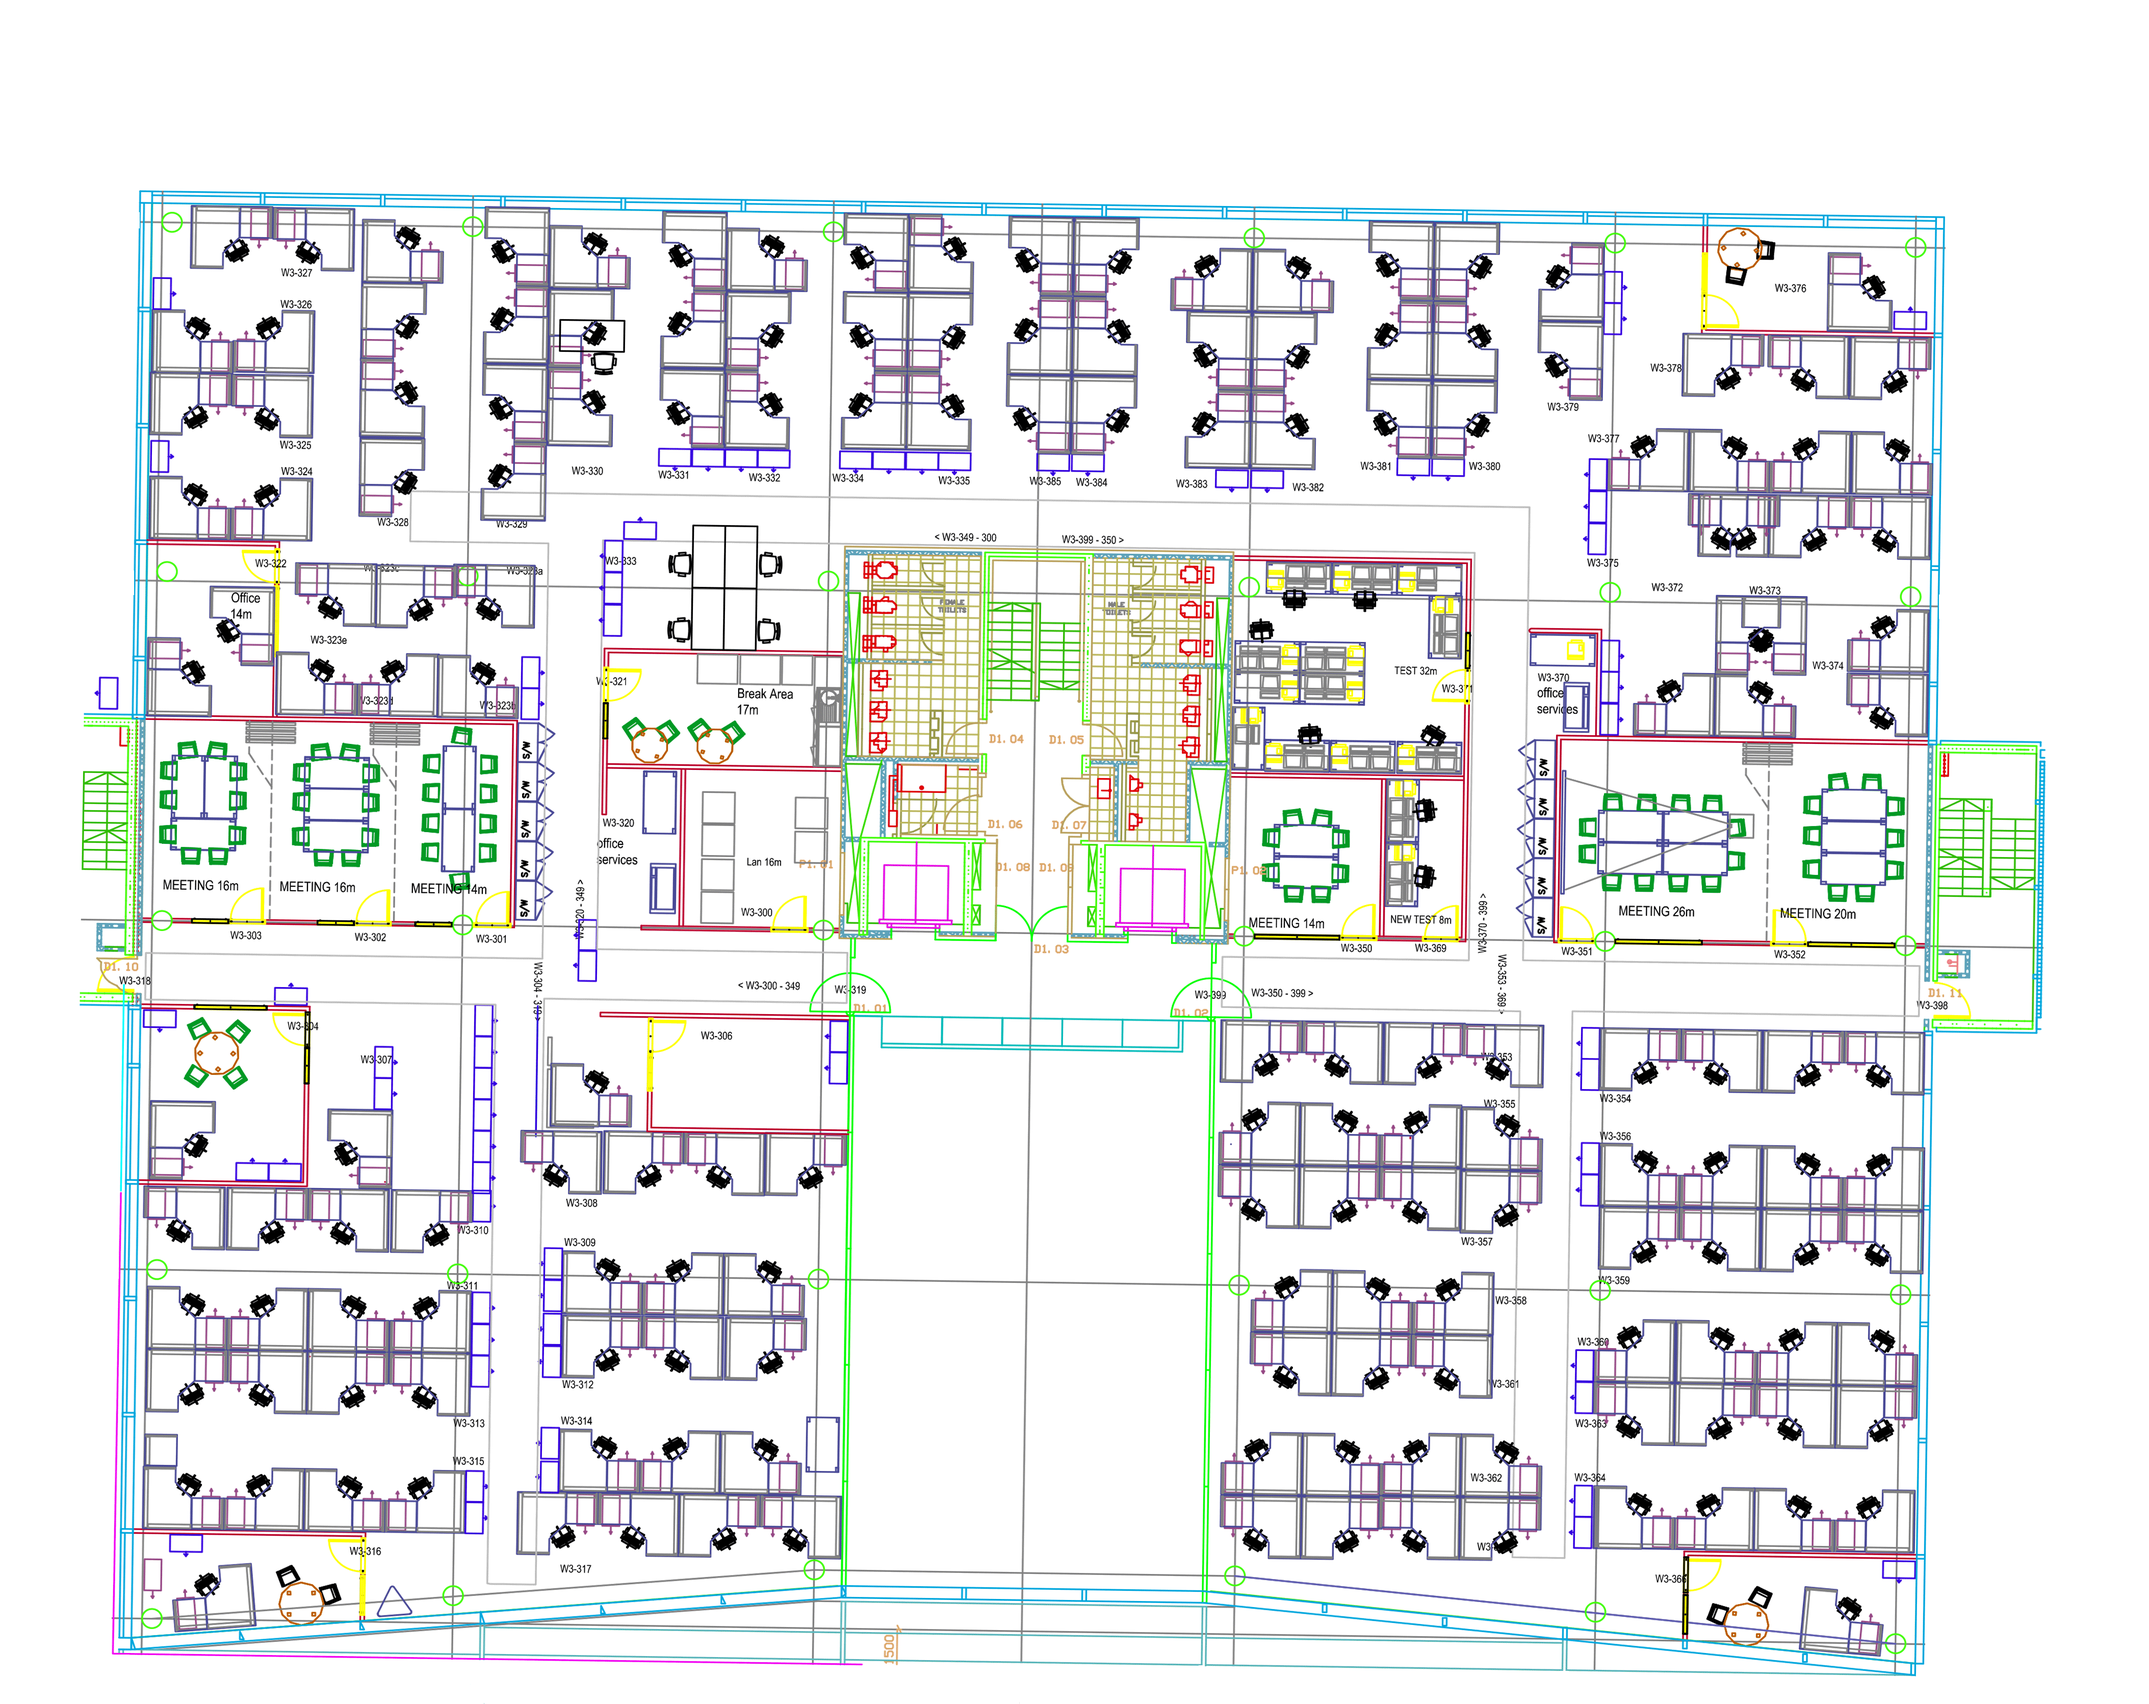
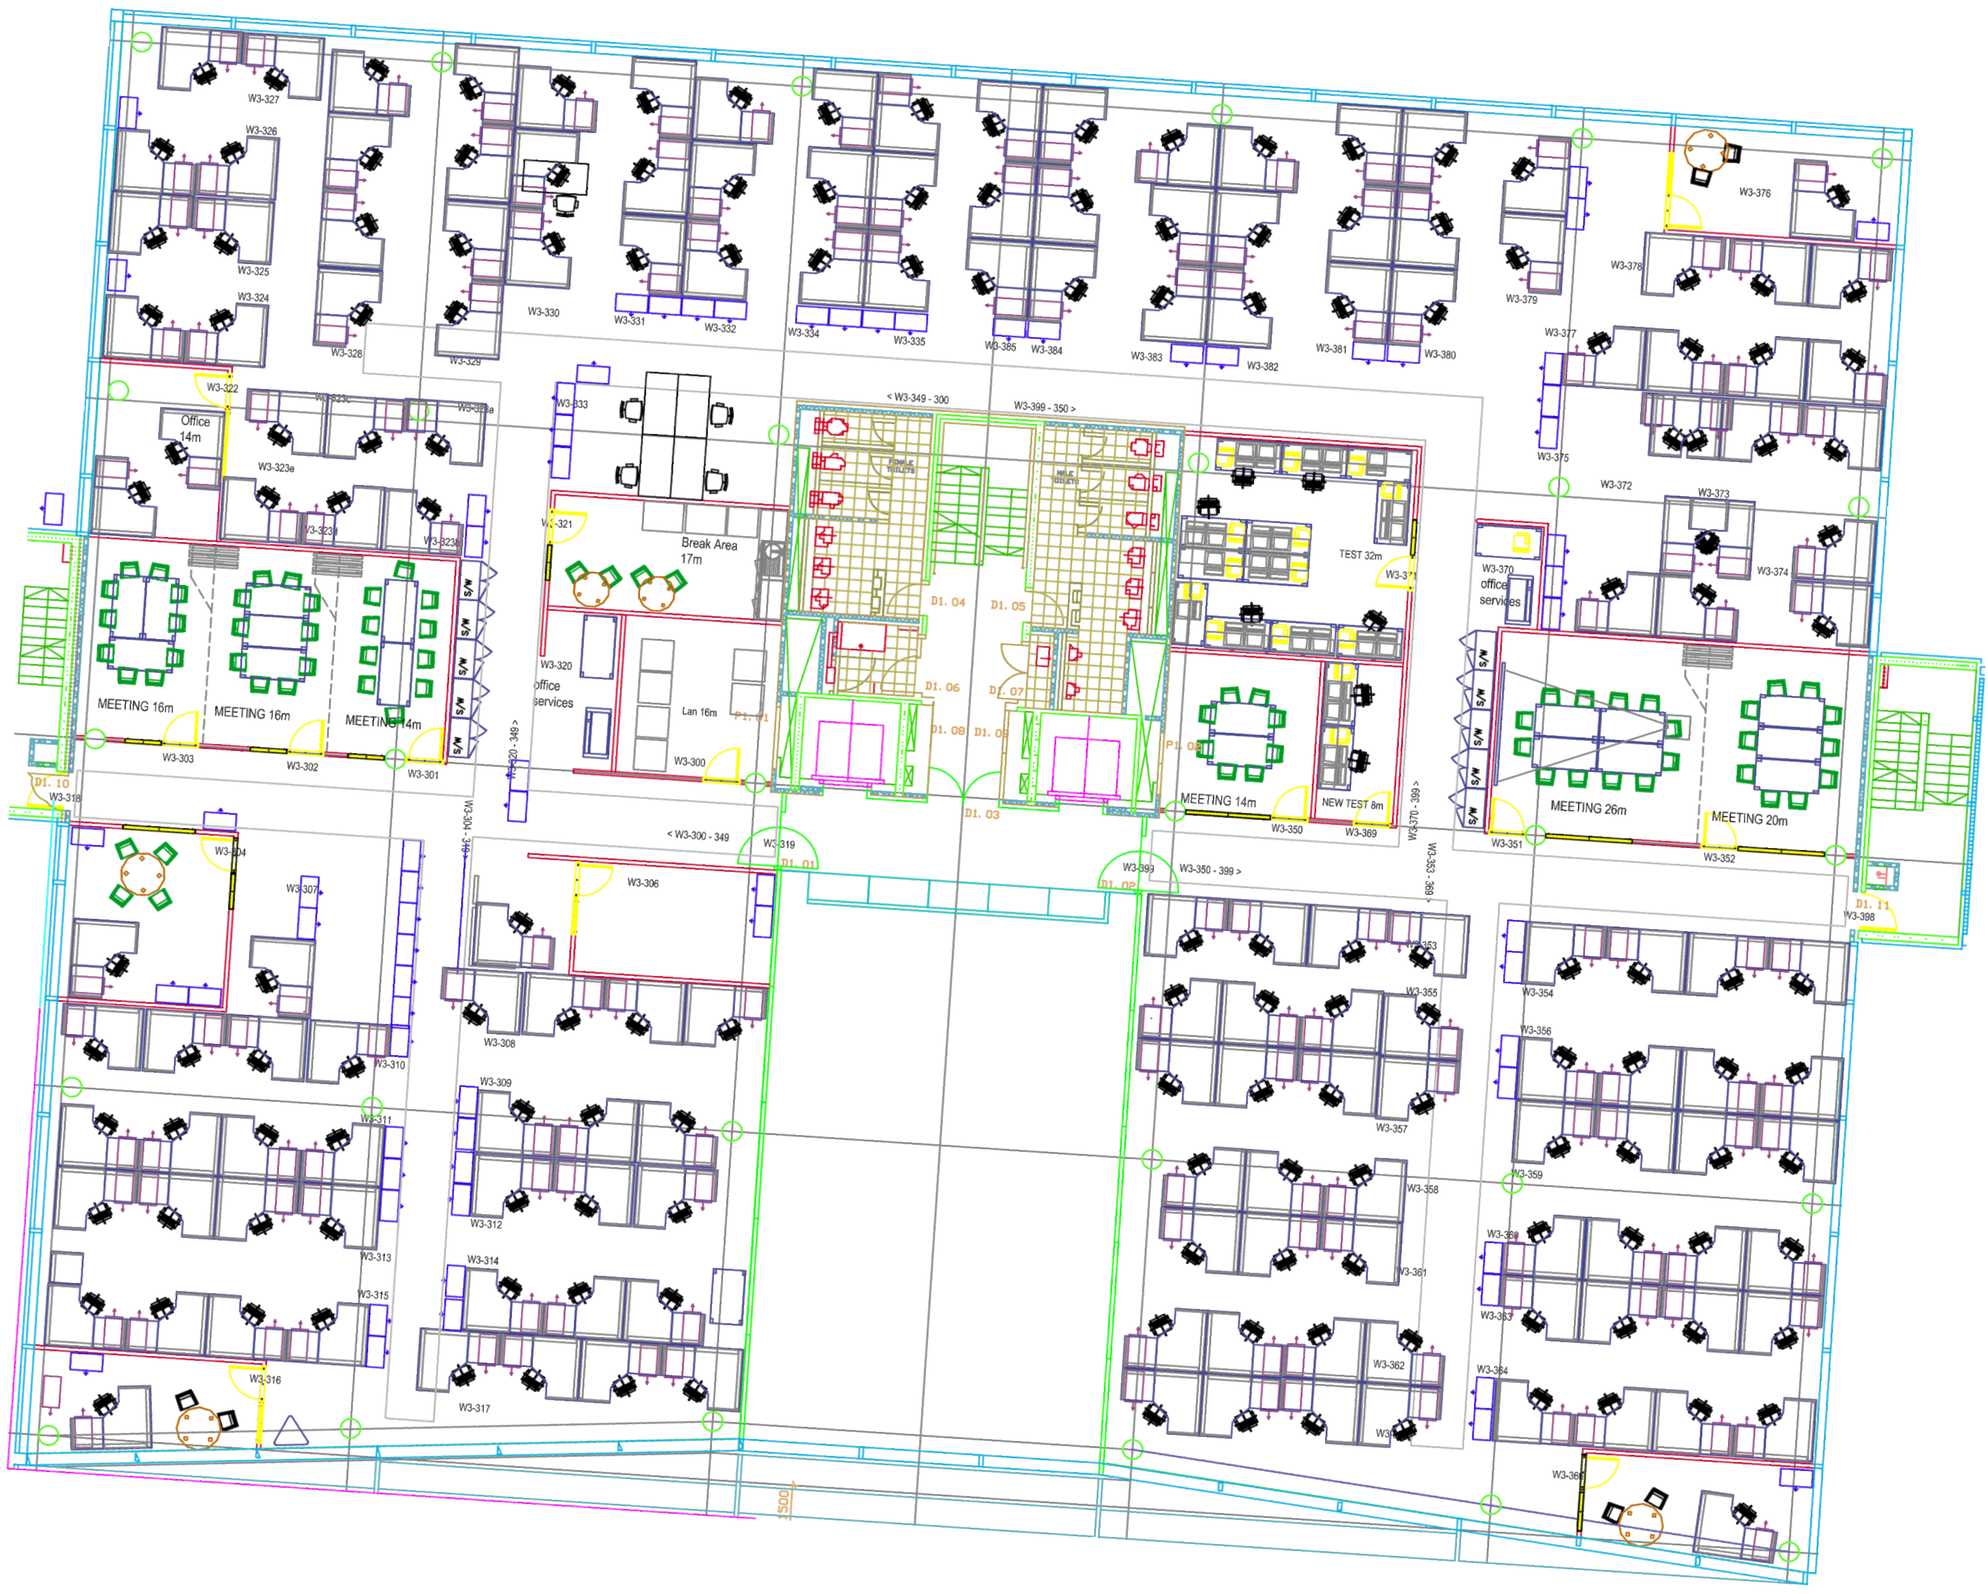
[Fix]

diff --git a/webapp/src/app/pages/demo/demo.component.ts b/webapp/src/app/pages/demo/demo.component.ts
@@ -38,40 +38,37 @@ export class DemoComponent implements OnInit, OnDestroy, AfterViewInit {
   private marker: L.Marker;
   private circle: L.Circle;
 
-  private floor_1: L.LayerGroup = new L.LayerGroup();
-  private floor_2: L.LayerGroup = new L.LayerGroup();
-  private floor_3: L.LayerGroup = new L.LayerGroup();
-  private floor_4: L.LayerGroup = new L.LayerGroup();
+  private building: L.LayerGroup = new L.LayerGroup();
 
-  private circle_1_1: L.CircleMarkerOptions = {
+  private circle_1: L.CircleMarkerOptions = {
     color: '#000000',
     weight: 1,
     fillColor: '#e7e35a',
     fillOpacity: 0.3
   };
 
-  private circle_1_2: L.CircleMarkerOptions = {
+  private circle_2: L.CircleMarkerOptions = {
     color: '#000000',
     weight: 1,
     fillColor: '#58dcd6',
     fillOpacity: 0.3
   };
 
-  private circle_2_1: L.CircleMarkerOptions = {
+  private circle_3: L.CircleMarkerOptions = {
     color: '#000000',
     weight: 1,
     fillColor: '#9f29a9',
     fillOpacity: 0.3
   };
 
-  private circle_3_1: L.CircleMarkerOptions = {
+  private circle_4: L.CircleMarkerOptions = {
     color: '#000000',
     weight: 1,
     fillColor: '#4272ca',
     fillOpacity: 0.3
   };
 
-  private circle_4_1: L.CircleMarkerOptions = {
+  private circle_5: L.CircleMarkerOptions = {
     color: '#000000',
     weight: 1,
     fillColor: '#31af23',
@@ -104,14 +101,11 @@ export class DemoComponent implements OnInit, OnDestroy, AfterViewInit {
 
   private layersControl = {
     baseLayers: {
-      'Floor 1': this.floor_1,
-      'Floor 2': this.floor_2,
-      'Floor 3': this.floor_3,
-      'Floor 4': this.floor_4,
+      'Building': this.building,
     }
   };
 
-  private room_1_1: any = {
+  private beacon_1: any = {
     'type': 'Feature',
     'geometry': {
       'type': 'Polygon',
@@ -150,7 +144,7 @@ export class DemoComponent implements OnInit, OnDestroy, AfterViewInit {
     }
   };
 
-  private room_1_2: any = {
+  private beacon_2: any = {
     'type': 'Feature',
     'geometry': {
       'type': 'Polygon',
@@ -181,7 +175,7 @@ export class DemoComponent implements OnInit, OnDestroy, AfterViewInit {
     }
   };
 
-  private room_2_1: any = {
+  private beacon_3: any = {
     'type': 'Feature',
     'geometry': {
       'type': 'Polygon',
@@ -212,7 +206,7 @@ export class DemoComponent implements OnInit, OnDestroy, AfterViewInit {
     }
   };
 
-  private room_3_1: any = {
+  private beacon_4: any = {
     'type': 'Feature',
     'geometry': {
       'type': 'Polygon',
@@ -243,7 +237,7 @@ export class DemoComponent implements OnInit, OnDestroy, AfterViewInit {
     }
   };
 
-  private room_4_1: any = {
+  private beacon_5: any = {
     'type': 'Feature',
     'geometry': {
       'type': 'Polygon',
@@ -278,8 +272,7 @@ export class DemoComponent implements OnInit, OnDestroy, AfterViewInit {
 
   constructor(private rt: RealTime,
               private userApi: UserApi) {
-    this.deviceId = '';
-    //this.deviceId = '19FC4E';
+    this.deviceId = '19FB8D';
   }
 
   ngOnInit(): void {
@@ -306,15 +299,9 @@ export class DemoComponent implements OnInit, OnDestroy, AfterViewInit {
       this.map.removeLayer(this.circle);
     }
 
-    this.map.removeLayer(this.room_1_1);
-    this.map.removeLayer(this.room_1_2);
-    this.map.removeLayer(this.room_2_1);
-    this.map.removeLayer(this.room_3_1);
-    this.map.removeLayer(this.room_4_1);
-
-    this.map.removeLayer(this.floor_2);
-    this.map.removeLayer(this.floor_3);
-    this.map.removeLayer(this.floor_4);
+    this.map.removeLayer(this.beacon_1);
+    this.map.removeLayer(this.beacon_2);
+    this.map.removeLayer(this.beacon_3);
   }
 
   setup(): void {
@@ -353,40 +340,40 @@ export class DemoComponent implements OnInit, OnDestroy, AfterViewInit {
         this.geolocs[0].Message.data_parsed.forEach((p: Property) => {
           if (p.key === 'beaconId') {
             if (p.value === '00001') {
-              this.floor_1.addTo(this.map);
-              //this.room_1_2.addTo(this.map);
+              //this.building.addTo(this.map);
+              //this.beacon_2.addTo(this.map);
               this.markerIconOptions.iconUrl = 'assets/img/markers/marker-icon-blue.png';
               this.marker = L.marker(new LatLng(this.geolocs[0].location.lat, this.geolocs[0].location.lng), {icon: icon(this.markerIconOptions)}).addTo(this.map);
-              this.circle = L.circle(new LatLng(this.geolocs[0].location.lat, this.geolocs[0].location.lng), radius, this.circle_1_2).addTo(this.map);
-              this.marker.bindPopup('Floor 1 - ' + this.deviceId).openPopup();
+              this.circle = L.circle(new LatLng(this.geolocs[0].location.lat, this.geolocs[0].location.lng), radius, this.circle_1).addTo(this.map);
+              this.marker.bindPopup('Beacon 1 - ' + this.deviceId).openPopup();
             } else if (p.value === '00002') {
-              this.floor_1.addTo(this.map);
-              //this.room_1_1.addTo(this.map);
+              //this.building.addTo(this.map);
+              //this.beacon_1.addTo(this.map);
               this.markerIconOptions.iconUrl = 'assets/img/markers/marker-icon-yellow.png';
               this.marker = L.marker(new LatLng(this.geolocs[0].location.lat, this.geolocs[0].location.lng), {icon: icon(this.markerIconOptions)}).addTo(this.map);
-              this.circle = L.circle(new LatLng(this.geolocs[0].location.lat, this.geolocs[0].location.lng), radius, this.circle_1_1).addTo(this.map);
-              this.marker.bindPopup('Floor 1 - ' + this.deviceId).openPopup();
+              this.circle = L.circle(new LatLng(this.geolocs[0].location.lat, this.geolocs[0].location.lng), radius, this.circle_1).addTo(this.map);
+              this.marker.bindPopup('Beacon 1 - ' + this.deviceId).openPopup();
             } else if (p.value === '00003') {
-              this.floor_2.addTo(this.map);
-              //this.room_2_1.addTo(this.map);
+              //this.building.addTo(this.map);
+              //this.beacon_3.addTo(this.map);
               this.markerIconOptions.iconUrl = 'assets/img/markers/marker-icon-violet.png';
               this.marker = L.marker(new LatLng(this.geolocs[0].location.lat, this.geolocs[0].location.lng), {icon: icon(this.markerIconOptions)}).addTo(this.map);
-              this.circle = L.circle(new LatLng(this.geolocs[0].location.lat, this.geolocs[0].location.lng), radius, this.circle_2_1).addTo(this.map);
-              this.marker.bindPopup('Floor 2 - ' + this.deviceId).openPopup();
+              this.circle = L.circle(new LatLng(this.geolocs[0].location.lat, this.geolocs[0].location.lng), radius, this.circle_2).addTo(this.map);
+              this.marker.bindPopup('Beacon 2 - ' + this.deviceId).openPopup();
             } else if (p.value === '00004') {
-              this.floor_3.addTo(this.map);
+              //this.building.addTo(this.map);
               //this.room_3_1.addTo(this.map);
               this.markerIconOptions.iconUrl = 'assets/img/markers/marker-icon-blue.png';
               this.marker = L.marker(new LatLng(this.geolocs[0].location.lat, this.geolocs[0].location.lng), {icon: icon(this.markerIconOptions)}).addTo(this.map);
-              this.circle = L.circle(new LatLng(this.geolocs[0].location.lat, this.geolocs[0].location.lng), radius, this.circle_3_1).addTo(this.map);
-              this.marker.bindPopup('Floor 3 - ' + this.deviceId).openPopup();
+              this.circle = L.circle(new LatLng(this.geolocs[0].location.lat, this.geolocs[0].location.lng), radius, this.circle_3).addTo(this.map);
+              this.marker.bindPopup('Beacon 3 - ' + this.deviceId).openPopup();
             } else if (p.value === '00005') {
-              this.floor_4.addTo(this.map);
+              //this.building.addTo(this.map);
               //this.room_4_1.addTo(this.map);
               this.markerIconOptions.iconUrl = 'assets/img/markers/marker-icon-green.png';
               this.marker = L.marker(new LatLng(this.geolocs[0].location.lat, this.geolocs[0].location.lng), {icon: icon(this.markerIconOptions)}).addTo(this.map);
-              this.circle = L.circle(new LatLng(this.geolocs[0].location.lat, this.geolocs[0].location.lng), radius, this.circle_4_1).addTo(this.map);
-              this.marker.bindPopup('Floor 4 - ' + this.deviceId).openPopup();
+              this.circle = L.circle(new LatLng(this.geolocs[0].location.lat, this.geolocs[0].location.lng), radius, this.circle_4).addTo(this.map);
+              this.marker.bindPopup('Beacon 4 - ' + this.deviceId).openPopup();
             }
           }
         });
@@ -414,56 +401,45 @@ export class DemoComponent implements OnInit, OnDestroy, AfterViewInit {
 
   loadMapElements() {
 
-    let imageUrl = '../assets/img/buildings/office.png';
-    let imageBounds: L.LatLngBoundsExpression = [[43.5439288935699, 1.51069521903992], [43.5439327819489, 1.51149988174438], [43.5433728527995, 1.51151597499847], [43.5433689643845, 1.51070058345795]];
-    L.imageOverlay(imageUrl, imageBounds).setOpacity(1).addTo(this.floor_1);
+    const imageUrl = '../assets/img/buildings/office.png';
+    const imageBounds: L.LatLngBoundsExpression = [[51.480659, -0.440732], [51.480297, -0.440000]];
+    //const imageBounds: L.LatLngBoundsExpression = [[51.480656, -0.440703], [51.480551, -0.440069], [51.480300, -0.439986], [51.480309, -0.440737]];
+    L.imageOverlay(imageUrl, imageBounds).setOpacity(1).addTo(this.building);
 
-    imageUrl = '../assets/img/buildings/floor_2.png';
-    imageBounds = [[43.5439288935699, 1.51069521903992], [43.5439327819489, 1.51149988174438], [43.5433728527995, 1.51151597499847], [43.5433689643845, 1.51070058345795]];
-    L.imageOverlay(imageUrl, imageBounds).setOpacity(1).addTo(this.floor_2);
-
-    imageUrl = '../assets/img/buildings/floor_3.png';
-    imageBounds = [[43.5439288935699, 1.51069521903992], [43.5439327819489, 1.51149988174438], [43.5433728527995, 1.51151597499847], [43.5433689643845, 1.51070058345795]];
-    L.imageOverlay(imageUrl, imageBounds).setOpacity(1).addTo(this.floor_3);
-
-    imageUrl = '../assets/img/buildings/floor_4.png';
-    imageBounds = [[43.5439288935699, 1.51069521903992], [43.5439327819489, 1.51149988174438], [43.5433728527995, 1.51151597499847], [43.5433689643845, 1.51070058345795]];
-    L.imageOverlay(imageUrl, imageBounds).setOpacity(1).addTo(this.floor_4);
-
-    this.room_1_1 = L.geoJSON(this.room_1_1).setStyle({
+    this.beacon_1 = L.geoJSON(this.beacon_1).setStyle({
       'color': '#000000',
       'weight': 2,
       'fillColor': '#e7e35a',
       'fillOpacity': 0.5
-    }).bindPopup('Floor 1');
+    }).bindPopup('Beacon 1');
 
-    this.room_1_2 = L.geoJSON(this.room_1_2).setStyle({
+    this.beacon_2 = L.geoJSON(this.beacon_2).setStyle({
       'color': '#000000',
       'weight': 2,
       'fillColor': '#58dcd6',
       'fillOpacity': 0.5
-    }).bindPopup('Floor 1 - Showroom');
+    }).bindPopup('Beacon 1 - Showroom');
 
-    this.room_2_1 = L.geoJSON(this.room_2_1).setStyle({
+    this.beacon_3 = L.geoJSON(this.beacon_3).setStyle({
       'color': '#000000',
       'weight': 2,
       'fillColor': '#9f29a9',
       'fillOpacity': 0.5
-    }).bindPopup('Floor 2');
+    }).bindPopup('Beacon 2');
 
-    this.room_3_1 = L.geoJSON(this.room_3_1).setStyle({
+    this.beacon_4 = L.geoJSON(this.beacon_4).setStyle({
       'color': '#000000',
       'weight': 2,
       'fillColor': '#4272ca',
       'fillOpacity': 0.5
-    }).bindPopup('Floor 3');
+    }).bindPopup('Beacon 3');
 
-    this.room_4_1 = L.geoJSON(this.room_4_1).setStyle({
+    this.beacon_5 = L.geoJSON(this.beacon_5).setStyle({
       'color': '#000000',
       'weight': 2,
       'fillColor': '#31af23',
       'fillOpacity': 0.5
-    }).bindPopup('Floor 4');
+    }).bindPopup('Beacon 4');
   }
 
   /**
@@ -485,6 +461,9 @@ export class DemoComponent implements OnInit, OnDestroy, AfterViewInit {
       this.rt.onAuthenticated().subscribe(() => this.setup());
       this.rt.onReady().subscribe();
     }
+
+    // Set office building plans
+    this.building.addTo(this.map);
 
     console.log('Map ready!');
   }

diff --git a/api/server/boot/03-load-beacons.ts b/api/server/boot/03-load-beacons.ts
@@ -21,11 +21,11 @@ module.exports = (app: any) => {
         });
 
         const beacons_toulouse = [
-          {id: '00001', type: 'sigfox', location: new app.loopback.GeoPoint({lat: 43.543559, lng: 1.511003})},
-          {id: '00002', type: 'sigfox', location: new app.loopback.GeoPoint({lat: 43.543758, lng: 1.511194})},
-          {id: '00003', type: 'sigfox', location: new app.loopback.GeoPoint({lat: 43.543785, lng: 1.511163})},
-          {id: '00004', type: 'sigfox', location: new app.loopback.GeoPoint({lat: 43.543743, lng: 1.511243})},
-          {id: '00005', type: 'sigfox', location: new app.loopback.GeoPoint({lat: 43.543769, lng: 1.511215})}
+          {id: '00001', type: 'sigfox', location: new app.loopback.GeoPoint({lat: 51.480627, lng: -0.440639})},
+          {id: '00002', type: 'sigfox', location: new app.loopback.GeoPoint({lat: 51.480595, lng: -0.440111})},
+          {id: '00003', type: 'sigfox', location: new app.loopback.GeoPoint({lat: 51.480361, lng: -0.440651})},
+          {id: '00004', type: 'sigfox', location: new app.loopback.GeoPoint({lat: 51.480343, lng: -0.440156})},
+          {id: '00005', type: 'sigfox', location: new app.loopback.GeoPoint({lat: 51.480426, lng: -0.440393})}
         ];
         beacons_toulouse.forEach((beacon) => {
           Beacon.create(beacon, (err: any, beacon: any) => {
